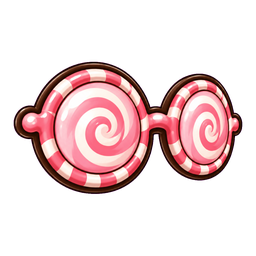
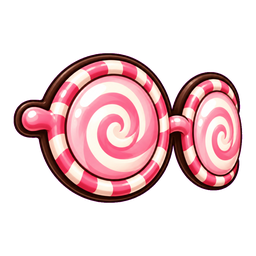
feat(side-art): masks, hats with a front, one-eyed pieces; eye-shift only on the eyes midpoint
33 more side sprites (11 masks, 13 hats, monocle / crest / lorgnette,
plus the 8 members glasses redone with the lens addendum), all reviewed
on the turned pig standing and seated. The bridge shift applies only to
the eyes midpoint — a single-eye anchor is already on its eye. The
lorgnette is a pair (lens addendum); the crest anchors eye_l with its
pivot on the lens.

diff --git a/constants/hat_side.generated.ts b/constants/hat_side.generated.ts
@@ -6,25 +6,52 @@
 export const HAT_SIDE_IMAGES: Record<string, number> = {
 	acorn_bow: require("../assets/images/hats/side/acorn_bow.png"),
 	astronaut: require("../assets/images/hats/side/astronaut.png"),
+	aurora_glow_hood: require("../assets/images/hats/side/aurora_glow_hood.png"),
 	aviator_sunglasses: require("../assets/images/hats/side/aviator_sunglasses.png"),
+	bog_helmet: require("../assets/images/hats/side/bog_helmet.png"),
+	carnival_mask: require("../assets/images/hats/side/carnival_mask.png"),
+	cat_mask: require("../assets/images/hats/side/cat_mask.png"),
 	cocoa_sheen_specs: require("../assets/images/hats/side/cocoa_sheen_specs.png"),
 	coconut_shell_shades: require("../assets/images/hats/side/coconut_shell_shades.png"),
 	cowboy: require("../assets/images/hats/side/cowboy.png"),
+	domino: require("../assets/images/hats/side/domino.png"),
 	frost_spectacles: require("../assets/images/hats/side/frost_spectacles.png"),
 	galaxy_shades: require("../assets/images/hats/side/galaxy_shades.png"),
 	heart_sunglasses: require("../assets/images/hats/side/heart_sunglasses.png"),
+	hero_mask: require("../assets/images/hats/side/hero_mask.png"),
 	jam_jar_lenses: require("../assets/images/hats/side/jam_jar_lenses.png"),
 	knight_visor_specs: require("../assets/images/hats/side/knight_visor_specs.png"),
 	lollipop_specs: require("../assets/images/hats/side/lollipop_specs.png"),
+	masquerade: require("../assets/images/hats/side/masquerade.png"),
+	masquerade_plume_hat: require("../assets/images/hats/side/masquerade_plume_hat.png"),
+	messenger: require("../assets/images/hats/side/messenger.png"),
+	midnight_eye_mask: require("../assets/images/hats/side/midnight_eye_mask.png"),
+	monocle: require("../assets/images/hats/side/monocle.png"),
+	muddy_cap: require("../assets/images/hats/side/muddy_cap.png"),
 	nerd_glasses: require("../assets/images/hats/side/nerd_glasses.png"),
+	opera_lorgnette: require("../assets/images/hats/side/opera_lorgnette.png"),
+	paper_boat: require("../assets/images/hats/side/paper_boat.png"),
 	petal_specs: require("../assets/images/hats/side/petal_specs.png"),
+	pirate_tricorn: require("../assets/images/hats/side/pirate_tricorn.png"),
 	pixel_glasses: require("../assets/images/hats/side/pixel_glasses.png"),
+	robber_mask: require("../assets/images/hats/side/robber_mask.png"),
 	round_glasses: require("../assets/images/hats/side/round_glasses.png"),
 	royal_pince_nez: require("../assets/images/hats/side/royal_pince_nez.png"),
 	safety_goggles: require("../assets/images/hats/side/safety_goggles.png"),
+	silver_plume_helm: require("../assets/images/hats/side/silver_plume_helm.png"),
+	skull_mask: require("../assets/images/hats/side/skull_mask.png"),
+	sleep_mask: require("../assets/images/hats/side/sleep_mask.png"),
+	slop_club_monocle_crest: require("../assets/images/hats/side/slop_club_monocle_crest.png"),
+	slop_club_signet_visor: require("../assets/images/hats/side/slop_club_signet_visor.png"),
+	squire_feather_cap: require("../assets/images/hats/side/squire_feather_cap.png"),
 	swim_goggles: require("../assets/images/hats/side/swim_goggles.png"),
 	three_d_glasses: require("../assets/images/hats/side/three_d_glasses.png"),
+	ticket_takers_cap: require("../assets/images/hats/side/ticket_takers_cap.png"),
 	tophat: require("../assets/images/hats/side/tophat.png"),
+	venice_mask: require("../assets/images/hats/side/venice_mask.png"),
+	viking_helmet: require("../assets/images/hats/side/viking_helmet.png"),
+	vr_headset: require("../assets/images/hats/side/vr_headset.png"),
 	wallow_bronze_specs: require("../assets/images/hats/side/wallow_bronze_specs.png"),
+	wallow_rookie_cap: require("../assets/images/hats/side/wallow_rookie_cap.png"),
 	wizard: require("../assets/images/hats/side/wizard.png"),
 };

diff --git a/constants/membersRel.generated.ts b/constants/membersRel.generated.ts
@@ -52,7 +52,7 @@ export const MEMBERS_REL_DATA: Record<string, RelSpec> = {
 	slop_club_laurel_cap: { pivot: { x: 0.5, y: 0.86 }, widthFrac: 0.42, anchor: "head", behind: false },
 	slop_club_signet_visor: { pivot: { x: 0.5, y: 0.86 }, widthFrac: 0.42, anchor: "head", behind: false },
 	slop_club_seal_bow: { pivot: { x: 0.46, y: 0.5 }, widthFrac: 0.42, anchor: "head", behind: false },
-	slop_club_monocle_crest: { pivot: { x: 0.49, y: 0.52 }, widthFrac: 0.62, anchor: "eyes", behind: false },
+	slop_club_monocle_crest: { pivot: { x: 0.484, y: 0.441 }, widthFrac: 0.5, anchor: "eye_l", behind: false },
 	slop_club_membership_card: { pivot: { x: 0.45, y: 0.72 }, widthFrac: 0.42, anchor: "hand_r", behind: false },
 	corn_on_the_cob: { pivot: { x: 0.45, y: 0.72 }, widthFrac: 0.42, anchor: "hand_r", behind: false },
 	slop_club_signet_crown: { pivot: { x: 0.5, y: 0.86 }, widthFrac: 0.42, anchor: "head", behind: false },

diff --git a/components/ui/PigStage.tsx b/components/ui/PigStage.tsx
@@ -271,8 +271,9 @@ export function resolveSlot(
 		// An eye-line item on the turned head sits back from the eye midpoint so
 		// its bridge lands over the nose (TURNED_EYE_SHIFT); a forced ritual image
 		// keeps the raw anchor.
-		const eyeBound = anchorName === "eyes" || anchorName === "eye_l" || anchorName === "eye_r";
-		const a = turned && eyeBound && !slot.imageSrc ? { x: resolved.x - TURNED_EYE_SHIFT, y: resolved.y } : resolved;
+		// Only the `eyes` midpoint has a bridge to place; a single-eye anchor is
+		// already on the eye it names.
+		const a = turned && anchorName === "eyes" && !slot.imageSrc ? { x: resolved.x - TURNED_EYE_SHIFT, y: resolved.y } : resolved;
 		const aspect = resolvePigStageAssetAspect(
 			imageSrc,
 			typeof Image.resolveAssetSource === "function"

diff --git a/tools/gen_side_items.py b/tools/gen_side_items.py
@@ -110,7 +110,7 @@ ONE_EYE = (
     "handle trailing down and to the LEFT. Keep the metal, the glass and the "
     "decoration exactly as in the front sprite."
 )
-ONE_EYE_IDS = frozenset({"monocle", "slop_club_monocle_crest", "opera_lorgnette"})
+ONE_EYE_IDS = frozenset({"monocle", "slop_club_monocle_crest"})
 
 REL_FILES = ("constants/hat_rel.generated.ts", "constants/membersRel.generated.ts")
 

diff --git a/docs/reviews/pig-angle-audit-2026-09-15/README.md b/docs/reviews/pig-angle-audit-2026-09-15/README.md
@@ -93,3 +93,18 @@ python3 tools/gen_side_items.py pirate_tricorn messenger masquerade_plume_hat si
 
 Then re-run the sheet with `?side=1` to check placement of the new sprites, and
 the placement studio for the monocle family's near-eye pivot.
+
+## Follow-up — same day
+
+Queue A generated and reviewed on the pig (50 side sprites now: 28 face,
+17 hats, 5 originals). Two renderer rulings fell out of it:
+
+- The three-quarter camera is stated from the pig's geometry (near side =
+  viewer's LEFT); the generator had it inverted. Eye-line items get a
+  lens / mask / one-eye addendum (`tools/gen_side_items.py`).
+- An item on the `eyes` anchor of the turned families sits back
+  `TURNED_EYE_SHIFT` (16 canvas px) so its bridge is over the nose — the
+  midpoint of a near eye and a foreshortened far eye is not where a bridge
+  goes. Single-eye anchors are already on their eye and take no shift.
+
+`slop_club_monocle_crest` now anchors `eye_l` with its pivot on the lens.
